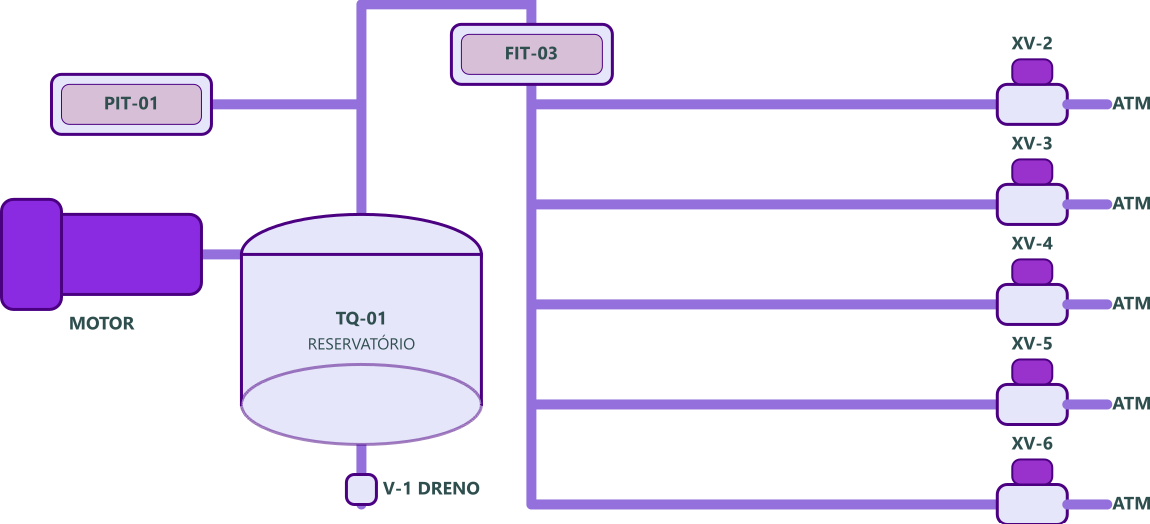
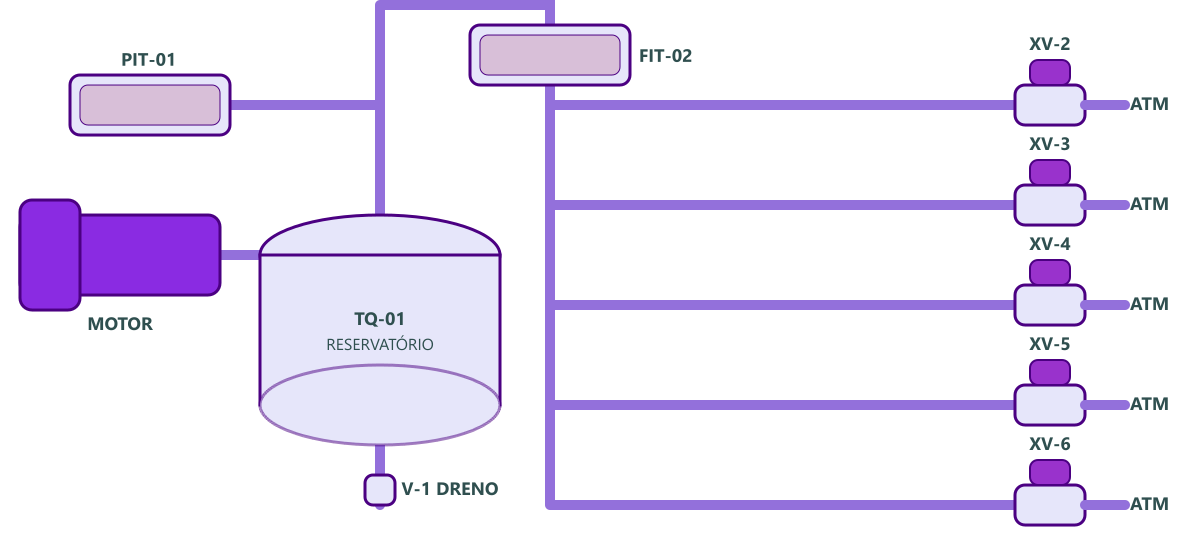
colocando pressao e vazao diretamente na imagem da bancada

Changed region(s): [[0.3652, 0.0, 1.0, 1.0], [0.0, 0.0, 0.4261, 0.9771]]

diff --git a/ui/dashboard_screen.py b/ui/dashboard_screen.py
@@ -58,62 +58,165 @@ class DashboardScreen(Screen):
 
         content = BoxLayout(orientation='horizontal', padding=10, spacing=10)
 
-        left_panel = BoxLayout(orientation='vertical', size_hint_x=0.2, spacing=10)
-        nav_buttons = {
-            'Gráficos': ('show_chart', 'graficos'),
-            'Elétrica': ('bolt', 'eletrica'),
-            'Válvulas': ('toggle_on', 'valvulas'),
-            'Histórico': ('history', 'historico'),
-            'Banco de Dados': ('storage', 'bd'),
-            'Sobre': ('info_outline', 'about')
-        }
-        for text, (icon, screen) in nav_buttons.items():
-            btn_container = BoxLayout(orientation='horizontal', size_hint_y=None, height=sp(50))
-            icon_btn = IconButton(icon_name=icon, size_hint_x=None, width=sp(50), on_press=self.navigate)
-            icon_btn.screen_name = screen
-            label_btn = Button(
-                text=text,
-                font_size=sp(18),
-                background_color=(0, 0, 0, 0),
-                text_size=(Window.width * 0.15, None),
-                halign='left',
-                valign='middle',
-                on_press=self.navigate
-            )
-            label_btn.screen_name = screen
-            btn_container.add_widget(icon_btn)
-            btn_container.add_widget(label_btn)
-            left_panel.add_widget(btn_container)
-        content.add_widget(left_panel)
+        # left_panel = BoxLayout(orientation='vertical', size_hint_x=0.2, spacing=10)
+        # nav_buttons = {
+        #     'Gráficos': ('show_chart', 'graficos'),
+        #     'Elétrica': ('bolt', 'eletrica'),
+        #     'Válvulas': ('toggle_on', 'valvulas'),
+        #     'Histórico': ('history', 'historico'),
+        #     'Banco de Dados': ('storage', 'bd'),
+        #     'Sobre': ('info_outline', 'about')
+        # }
+        # for text, (icon, screen) in nav_buttons.items():
+        #     btn_container = BoxLayout(orientation='horizontal', size_hint_y=None, height=sp(50))
+        #     icon_btn = IconButton(icon_name=icon, size_hint_x=None, width=sp(50), on_press=self.navigate)
+        #     icon_btn.screen_name = screen
+        #     label_btn = Button(
+        #         text=text,
+        #         font_size=sp(18),
+        #         background_color=(0, 0, 0, 0),
+        #         text_size=(Window.width * 0.15, None),
+        #         halign='left',
+        #         valign='middle',
+        #         on_press=self.navigate
+        #     )
+        #     label_btn.screen_name = screen
+        #     btn_container.add_widget(icon_btn)
+        #     btn_container.add_widget(label_btn)
+        #     left_panel.add_widget(btn_container)
+        # content.add_widget(left_panel)
 
-        center_panel = BoxLayout(orientation='vertical', size_hint_x=0.5, spacing=10)
-        diagram_placeholder = AnchorLayout(anchor_x='center', anchor_y='center')
+        #center_panel = BoxLayout(orientation='vertical', size_hint_x=0.5, spacing=10)
+        center_panel = BoxLayout(orientation='vertical', size_hint_x=0.62, spacing=10)
+        # diagram_placeholder = AnchorLayout(anchor_x='center', anchor_y='center')
+        # with diagram_placeholder.canvas.before:
+        #     Color(1, 1, 1, 0.9)
+        #     self.diagram_bg = RoundedRectangle(pos=diagram_placeholder.pos, size=diagram_placeholder.size, radius=[10])
+        # diagram_placeholder.bind(pos=lambda i, v: setattr(self.diagram_bg, 'pos', v),
+        #                         size=lambda i, v: setattr(self.diagram_bg, 'size', v))
+        # img_path = 'assets/bancada.png'
+        # if os.path.exists(img_path):
+        #     #diagram_placeholder.add_widget(Image(source=img_path, nocache=True))
+        #     self.bancada_img = Image(
+        #         source=img_path,
+        #         nocache=True,
+        #         allow_stretch=True,
+        #         keep_ratio=True,
+        #         size_hint=(0.9, 0.9)
+        #     )
+        #     diagram_placeholder.add_widget(self.bancada_img)
+            
+        # else:
+        #     diagram_placeholder.add_widget(Label(
+        #         text=f"Diagrama da Bancada\n({img_path} não encontrada)",
+        #         color=(0, 0, 0, 1),
+        #         halign='center'
+        #     ))
+        # center_panel.add_widget(diagram_placeholder)
+
+        # ==========================
+        # DIAGRAMA DA BANCADA
+        # ==========================
+
+        diagram_placeholder = AnchorLayout(
+            anchor_x='center',
+            anchor_y='center',
+            size_hint_y=1
+        )
+
         with diagram_placeholder.canvas.before:
-            Color(1, 1, 1, 0.9)
-            self.diagram_bg = RoundedRectangle(pos=diagram_placeholder.pos, size=diagram_placeholder.size, radius=[10])
-        diagram_placeholder.bind(pos=lambda i, v: setattr(self.diagram_bg, 'pos', v),
-                                size=lambda i, v: setattr(self.diagram_bg, 'size', v))
-        img_path = 'assets/bancada.png'
+            Color(1, 1, 1, 0.95)
+            self.diagram_bg = RoundedRectangle(
+                pos=diagram_placeholder.pos,
+                size=diagram_placeholder.size,
+                radius=[10]
+            )
+
+        diagram_placeholder.bind(
+            pos=lambda i, v: setattr(self.diagram_bg, 'pos', v),
+            size=lambda i, v: setattr(self.diagram_bg, 'size', v)
+        )
+
+        self.diagram_layer = FloatLayout(
+            size_hint=(0.95, 0.95)
+        )
+
+        img_path = os.path.join("assets", "bancada.png")
+
         if os.path.exists(img_path):
-            diagram_placeholder.add_widget(Image(source=img_path, nocache=True))
-        else:
-            diagram_placeholder.add_widget(Label(
-                text=f"Diagrama da Bancada\n({img_path} não encontrada)",
+
+            self.bancada_img = Image(
+                source=img_path,
+                nocache=True,
+                allow_stretch=True,
+                keep_ratio=True,
+                size_hint=(1, 1),
+                pos_hint={"center_x":0.5, "center_y":0.5}
+            )
+
+            self.diagram_layer.add_widget(self.bancada_img)
+
+            # ------------------------
+            # PRESSÃO (PIT-01)
+            # ------------------------
+            self.pressao_label = Label(
+                text="0.00 bar",
+                markup=True,
+                halign="center",
+                valign="middle",
+                font_size=sp(18),
+                bold=True,
                 color=(0, 0, 0, 1),
-                halign='center'
-            ))
+                size_hint=(0.12,0.08),
+                pos_hint={"x":0.065,"y":0.655}
+                #pos_hint={"x":0.063,"y":0.67}
+            )
+
+            # ------------------------
+            # VAZÃO (FIT-03)
+            # ------------------------
+            self.vazao_label = Label(
+                text="0.00 L/min",
+                markup=True,
+                halign="center",
+                valign="middle",
+                font_size=sp(18),
+                bold=True,
+                color=(0, 0, 0, 1),
+                size_hint=(0.15,0.08),
+                pos_hint={"x":0.385,"y":0.71}
+                #pos_hint={"x":0.384,"y":0.73}
+            )
+
+            self.diagram_layer.add_widget(self.pressao_label)
+            self.diagram_layer.add_widget(self.vazao_label)
+
+        else:
+
+            self.diagram_layer.add_widget(
+                Label(
+                    text="Imagem da bancada não encontrada.",
+                    color=(0,0,0,1)
+                )
+            )
+
+        diagram_placeholder.add_widget(self.diagram_layer)
+
         center_panel.add_widget(diagram_placeholder)
 
-        indicators_grid = GridLayout(cols=4, spacing=10, size_hint_y=0.25)
-        self.indicators = {
-            'ro.pressao': ValueIndicator(label_text='Pressão', unit='bar', min_val=0, max_val=10, alert_level=7, critical_level=9),
-            'ro.encoder': ValueIndicator(label_text='Rotação', unit='Hz', min_val=0, max_val=70, alert_level=62, critical_level=65),
-            'vazao_total': ValueIndicator(label_text='Vazão Total', unit='L/min', min_val=0, max_val=100, alert_level=80, critical_level=90),
-            'ro.torque': ValueIndicator(label_text='Torque', unit='N·m', min_val=0, max_val=20, alert_level=15, critical_level=18)
-        }
-        for ind in self.indicators.values():
-            indicators_grid.add_widget(ind)
-        center_panel.add_widget(indicators_grid)
+        # indicators_grid = GridLayout(cols=4, spacing=10, size_hint_y=0.25)
+        # self.indicators = {
+        #     'ro.pressao': ValueIndicator(label_text='Pressão', unit='bar', min_val=0, max_val=10, alert_level=7, critical_level=9),
+        #     'ro.encoder': ValueIndicator(label_text='Rotação', unit='Hz', min_val=0, max_val=70, alert_level=62, critical_level=65),
+        #     'vazao_total': ValueIndicator(label_text='Vazão Total', unit='L/min', min_val=0, max_val=100, alert_level=80, critical_level=90),
+        #     'ro.torque': ValueIndicator(label_text='Torque', unit='N·m', min_val=0, max_val=20, alert_level=15, critical_level=18)
+        # }
+        # for ind in self.indicators.values():
+        #     indicators_grid.add_widget(ind)
+        # center_panel.add_widget(indicators_grid)
+
+        self.indicators = {}
+        
         content.add_widget(center_panel)
 
         right_panel_scroll = ScrollView(size_hint_x=0.3)
@@ -128,14 +231,29 @@ class DashboardScreen(Screen):
         right_panel.add_widget(Label(
             text="Controle do Motor", font_size=sp(20), bold=True, color=CORES['primaria'], size_hint_y=None, height=sp(30)
         ))
-        control_grid = GridLayout(cols=2, rows=2, spacing=10, size_hint_y=None, height=sp(100))
-        self.spinner_motor = Spinner(text='Verde', values=('Verde', 'Azul'), background_color=CORES['primaria'])
-        self.spinner_partida = Spinner(text='Escolha Partida', values=('Direta', 'Soft-start', 'Inversor'), background_color=CORES['primaria'])
+        # control_grid = GridLayout(cols=2, rows=2, spacing=10, size_hint_y=None, height=sp(100))
+        # self.spinner_motor = Spinner(text='Verde', values=('Verde', 'Azul'), background_color=CORES['primaria'])
+        # self.spinner_partida = Spinner(text='Escolha Partida', values=('Direta', 'Soft-start', 'Inversor'), background_color=CORES['primaria'])
+        # self.spinner_partida.bind(text=self.toggle_inverter_controls)
+        # control_grid.add_widget(Label(text='Motor:'))
+        # control_grid.add_widget(self.spinner_motor)
+        # control_grid.add_widget(Label(text='Partida:'))
+        # control_grid.add_widget(self.spinner_partida)
+
+        control_grid = GridLayout(cols=2, rows=1, spacing=10, size_hint_y=None, height=sp(50))
+
+        self.motor_tipo = 'Verde'  # valor fixo interno para não quebrar o comando
+
+        self.spinner_partida = Spinner(
+            text='Escolha Partida',
+            values=('Direta', 'Soft-start', 'Inversor'),
+            background_color=CORES['primaria']
+        )
         self.spinner_partida.bind(text=self.toggle_inverter_controls)
-        control_grid.add_widget(Label(text='Motor:'))
-        control_grid.add_widget(self.spinner_motor)
+
         control_grid.add_widget(Label(text='Partida:'))
         control_grid.add_widget(self.spinner_partida)
+
         right_panel.add_widget(control_grid)
 
         # --- INICIO DA SEÇÃO DO SLIDER ---
@@ -159,29 +277,54 @@ class DashboardScreen(Screen):
         )
         right_panel.add_widget(self.motor_status_label)
 
-        self.indicator_temp = ValueIndicator(
-            label_text="Temp. Carcaça", unit="°C", min_val=20, max_val=100, alert_level=80, critical_level=85, size_hint_y=None, height=sp(90)
-        )
-        self.indicator_corrente = ValueIndicator(
-            label_text="Corrente Média", unit="A", min_val=0, max_val=10, alert_level=7, critical_level=8.5, size_hint_y=None, height=sp(90)
-        )
-        right_panel.add_widget(self.indicator_temp)
-        right_panel.add_widget(self.indicator_corrente)
-
         right_panel.add_widget(Label(
-            text="Controle de Válvulas", font_size=sp(20), bold=True, color=CORES['primaria'], size_hint_y=None, height=sp(30)
+            text='',
+            size_hint_y=None,
+            height=sp(15)
         ))
-        self.valves = {}
-        valves_grid = GridLayout(cols=3, spacing=sp(15), size_hint_y=None, height=sp(180))
-        for i in range(1, 7):
-            valve_box = BoxLayout(orientation='vertical', spacing=5)
-            switch = Switch(active=False, size_hint_y=None, height=sp(48))
-            switch.bind(active=lambda instance, value, index=i: App.get_running_app().modbus.write_tag(f'co.xv{index}', 1 if value else 0))
-            valve_box.add_widget(Label(text=f"XV-0{i}", font_size=sp(14), size_hint_y=None, height=sp(20)))
-            valve_box.add_widget(switch)
-            valves_grid.add_widget(valve_box)
-            self.valves[i] = switch
-        right_panel.add_widget(valves_grid)
+
+        menu_buttons = {
+            'Gráficos': ('show_chart', 'graficos'),
+            'Elétrica': ('bolt', 'eletrica'),
+            'Válvulas': ('toggle_on', 'valvulas'),
+            'Histórico de eventos': ('history', 'historico'),
+            'Banco de Dados': ('storage', 'bd'),
+            'Sobre': ('info_outline', 'about')
+        }
+
+        for texto, (_, tela) in menu_buttons.items():
+            btn = HoverButton(
+                text=texto,
+                size_hint_y=None,
+                height=sp(50),
+                on_press=self.navigate
+            )
+            btn.screen_name = tela
+            right_panel.add_widget(btn)
+
+        # self.indicator_temp = ValueIndicator(
+        #     label_text="Temp. Carcaça", unit="°C", min_val=20, max_val=100, alert_level=80, critical_level=85, size_hint_y=None, height=sp(90)
+        # )
+        # self.indicator_corrente = ValueIndicator(
+        #     label_text="Corrente Média", unit="A", min_val=0, max_val=10, alert_level=7, critical_level=8.5, size_hint_y=None, height=sp(90)
+        # )
+        # right_panel.add_widget(self.indicator_temp)
+        # right_panel.add_widget(self.indicator_corrente)
+
+        # right_panel.add_widget(Label(
+        #     text="Controle de Válvulas", font_size=sp(20), bold=True, color=CORES['primaria'], size_hint_y=None, height=sp(30)
+        # ))
+        # self.valves = {}
+        # valves_grid = GridLayout(cols=3, spacing=sp(15), size_hint_y=None, height=sp(180))
+        # for i in range(1, 7):
+        #     valve_box = BoxLayout(orientation='vertical', spacing=5)
+        #     switch = Switch(active=False, size_hint_y=None, height=sp(48))
+        #     switch.bind(active=lambda instance, value, index=i: App.get_running_app().modbus.write_tag(f'co.xv{index}', 1 if value else 0))
+        #     valve_box.add_widget(Label(text=f"XV-0{i}", font_size=sp(14), size_hint_y=None, height=sp(20)))
+        #     valve_box.add_widget(switch)
+        #     valves_grid.add_widget(valve_box)
+        #     self.valves[i] = switch
+        # right_panel.add_widget(valves_grid)
 
         right_panel_scroll.add_widget(right_panel)
         content.add_widget(right_panel_scroll)
@@ -232,16 +375,22 @@ class DashboardScreen(Screen):
 
         self.connection_status.text = f"[font=MaterialIcons]cloud_done[/font] CONECTADO ({modbus.mode})"
         self.connection_status.color = CORES['sucesso']
+
+        pressao = modbus.read_tag("ro.pressao")
+        vazao = modbus.read_tag("ro.fit02")
+
+        self.pressao_label.text = f"{pressao:.2f} bar"
+        self.vazao_label.text = f"{vazao:.2f} L/min"
         
         # Atualiza indicadores
         for tag, widget in self.indicators.items():
             if tag == 'vazao_total':
-                widget.current_val = (modbus.read_tag('ro.fit02') + modbus.read_tag('ro.fit03'))
+                widget.current_val = (modbus.read_tag('ro.fit02'))
             else:
                 widget.current_val = modbus.read_tag(tag)
         
-        self.indicator_temp.current_val = modbus.read_tag('ro.temp_carc')
-        self.indicator_corrente.current_val = modbus.read_tag('ro.corrente_media')
+        #self.indicator_temp.current_val = modbus.read_tag('ro.temp_carc')
+        #self.indicator_corrente.current_val = modbus.read_tag('ro.corrente_media')
         
         # CORREÇÃO PRINCIPAL: Verifica o estado real do motor
         motor_ligado = modbus.get_motor_status()  # Usa o novo método
@@ -267,10 +416,10 @@ class DashboardScreen(Screen):
             self.motor_status_label.color = CORES['erro']
         
         # Atualiza estado das válvulas
-        for i, switch in self.valves.items():
-            state = modbus.read_tag(f'co.xv{i}') == 1
-            if switch.active != state:
-                switch.active = state
+        #for i, switch in self.valves.items():
+        #    state = modbus.read_tag(f'co.xv{i}') == 1
+        #    if switch.active != state:
+        #        switch.active = state
 
     def handle_motor_toggle(self, instance):
         """Versão corrigida do handle_motor_toggle"""
@@ -293,10 +442,15 @@ class DashboardScreen(Screen):
                 
             # Confirmação para ligar
             content = BoxLayout(orientation='vertical', spacing=15, padding=15)
+            # content.add_widget(Label(text=f'Tem certeza que deseja LIGAR o motor?\n'
+            #                             f'Tipo de Partida: {self.spinner_partida.text}\n'
+            #                             f'Motor: {self.spinner_motor.text}', 
+            #                     font_size=sp(16)))
+
             content.add_widget(Label(text=f'Tem certeza que deseja LIGAR o motor?\n'
-                                        f'Tipo de Partida: {self.spinner_partida.text}\n'
-                                        f'Motor: {self.spinner_motor.text}', 
-                                font_size=sp(16)))
+                            f'Tipo de Partida: {self.spinner_partida.text}', 
+                    font_size=sp(16)))
+            
             btn_box = BoxLayout(spacing=10, size_hint_y=None, height=sp(40))
             popup = Popup(title='Confirmação de Ação', content=content, size_hint=(None, None), 
                         size=(sp(400), sp(200)), title_align='center')
@@ -329,7 +483,7 @@ class DashboardScreen(Screen):
             motor_map = {'Verde': 1, 'Azul': 2}
 
             app.modbus.write_tag('co.sel_driver', partida_map.get(self.spinner_partida.text, 0))
-            app.modbus.write_tag('co.tipo_motor', motor_map.get(self.spinner_motor.text, 0))
+            app.modbus.write_tag('co.tipo_motor', motor_map.get(self.motor_tipo, 1))
 
             # Se for partida por inversor, envia também a referência de frequência.
             if self.spinner_partida.text == 'Inversor':